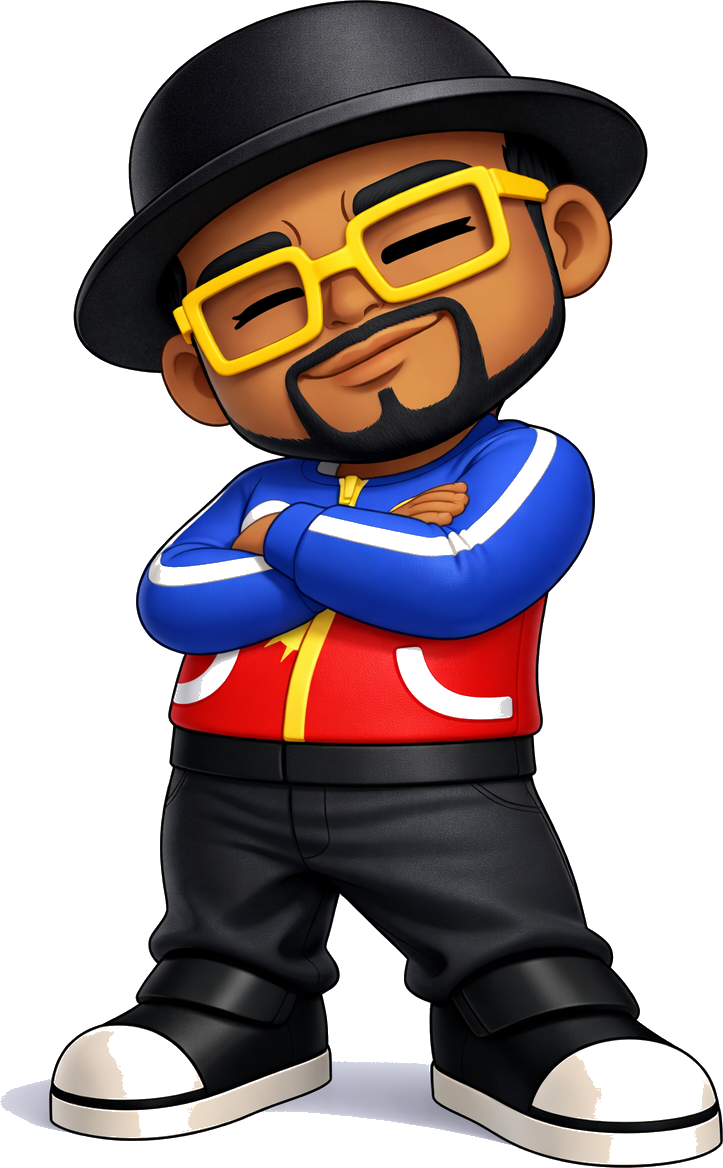
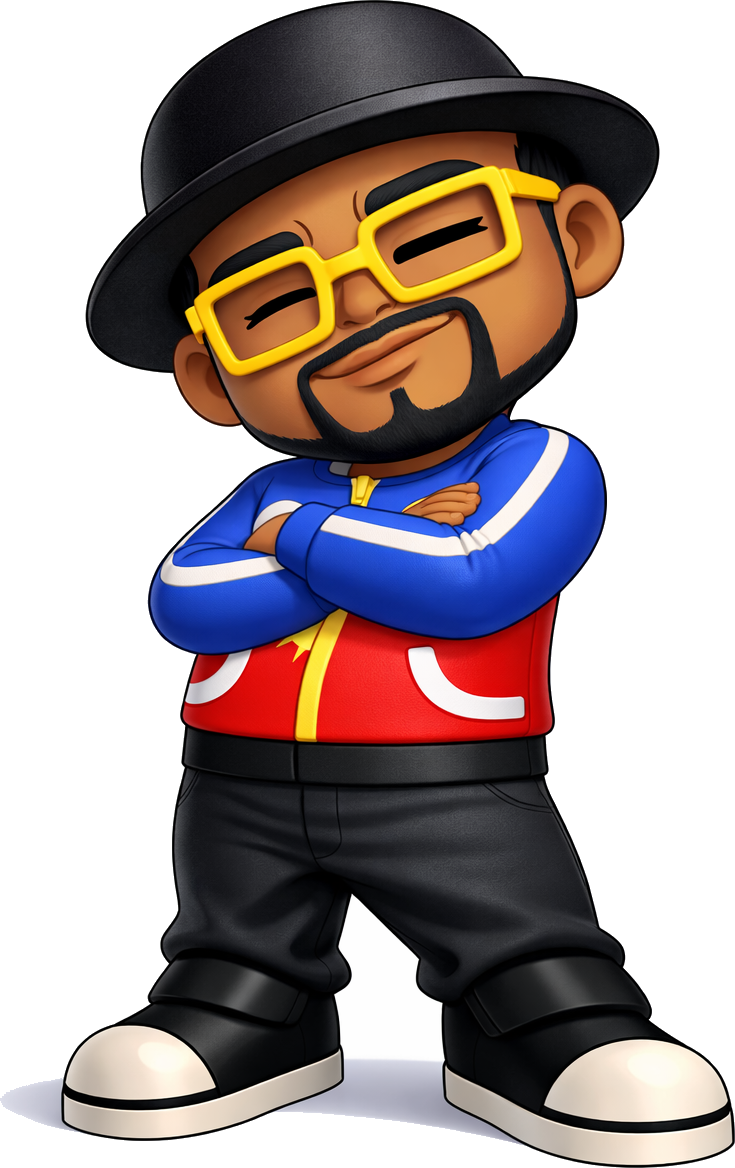
🩹 fix: re-process character PNGs with flood-fill (preserves teeth), add white glow
- Flood-fill from corners instead of global white removal — keeps teeth/internal whites
- Added CSS drop-shadow glow on toggle, chat avatars, 404 page, contact page

diff --git a/index.html b/index.html
@@ -744,7 +744,7 @@ widget.innerHTML=`
 #apl-chat{position:fixed;bottom:20px;right:20px;z-index:999;font-family:'Inter',sans-serif}
 #apl-toggle{width:72px;height:72px;border-radius:50%;background:linear-gradient(135deg,#1a2a3a,#0e1e2e);border:2px solid rgba(107,197,173,.2);cursor:pointer;overflow:hidden;box-shadow:0 8px 32px rgba(0,0,0,.4),0 0 20px rgba(107,197,173,.1);transition:transform .3s,box-shadow .3s;position:relative}
 #apl-toggle:hover{transform:scale(1.1);box-shadow:0 12px 40px rgba(0,0,0,.5),0 0 30px rgba(107,197,173,.2)}
-#apl-toggle img{width:100%;height:100%;object-fit:cover;object-position:top}
+#apl-toggle img{width:100%;height:100%;object-fit:cover;object-position:top;filter:drop-shadow(0 0 6px rgba(255,255,255,.25))}
 #apl-toggle .badge{position:absolute;top:-2px;right:-2px;width:18px;height:18px;background:#6BC5AD;border-radius:50%;border:2px solid #050510;animation:pulse 2s infinite}
 @keyframes pulse{0%,100%{opacity:1;transform:scale(1)}50%{opacity:.6;transform:scale(1.2)}}
 #apl-hint{position:absolute;bottom:80px;right:0;background:rgba(20,24,40,.95);border:1px solid rgba(107,197,173,.15);border-radius:16px 16px 4px 16px;padding:10px 16px;font-size:13px;color:rgba(255,255,255,.8);white-space:nowrap;box-shadow:0 8px 24px rgba(0,0,0,.3);animation:hintBounce 2s ease-in-out infinite;pointer-events:none}
@@ -761,7 +761,7 @@ widget.innerHTML=`
 #apl-messages{flex:1;overflow-y:auto;padding:16px 20px;max-height:320px}
 .apl-msg{display:flex;gap:8px;margin-bottom:16px;animation:msgIn .3s ease}
 @keyframes msgIn{from{opacity:0;transform:translateY(8px)}to{opacity:1;transform:translateY(0)}}
-.apl-msg.bot .avatar{width:32px;height:32px;border-radius:50%;object-fit:cover;object-position:top;flex-shrink:0}
+.apl-msg.bot .avatar{width:32px;height:32px;border-radius:50%;object-fit:cover;object-position:top;flex-shrink:0;filter:drop-shadow(0 0 4px rgba(255,255,255,.2))}
 .apl-msg .bubble{max-width:260px;padding:10px 14px;border-radius:16px;font-size:13px;line-height:1.6}
 .apl-msg.bot .bubble{background:rgba(107,197,173,.1);border:1px solid rgba(107,197,173,.1);color:rgba(255,255,255,.8);border-top-left-radius:4px}
 .apl-msg.user{flex-direction:row-reverse}

diff --git a/404.html b/404.html
@@ -13,7 +13,7 @@ h1,h2{font-family:'Space Grotesk',sans-serif}
 .glow-1{background:#1a3a5c;top:-100px;left:-100px;opacity:.15}
 .glow-2{background:#1a4a3a;bottom:-100px;right:-100px;opacity:.1}
 .container{position:relative;z-index:1;max-width:480px}
-.character{width:220px;height:auto;margin-bottom:24px;animation:wobble 3s ease-in-out infinite;filter:drop-shadow(0 20px 40px rgba(0,0,0,.4))}
+.character{width:220px;height:auto;margin-bottom:24px;animation:wobble 3s ease-in-out infinite;filter:drop-shadow(0 20px 40px rgba(0,0,0,.4)) drop-shadow(0 0 8px rgba(255,255,255,.2))}
 @keyframes wobble{0%,100%{transform:rotate(-2deg) translateY(0)}25%{transform:rotate(1deg) translateY(-8px)}75%{transform:rotate(-1deg) translateY(-4px)}}
 .code{font-family:'Space Grotesk',sans-serif;font-size:120px;font-weight:700;background:linear-gradient(135deg,#6BC5AD,#5A9FD4);-webkit-background-clip:text;-webkit-text-fill-color:transparent;line-height:1;margin-bottom:8px}
 h2{font-size:28px;color:#fff;margin-bottom:12px}

diff --git a/contact.html b/contact.html
@@ -19,7 +19,7 @@ a{color:#6BC5AD}
 .glow-2{width:400px;height:400px;background:#1a4a3a;bottom:-100px;left:-100px;opacity:.08}
 .hero{position:relative;z-index:1;max-width:800px;margin:0 auto;padding:60px 24px 40px;display:flex;align-items:center;gap:48px}
 .hero-character{flex-shrink:0}
-.hero-character img{width:200px;height:auto;filter:drop-shadow(0 20px 40px rgba(0,0,0,.4));animation:float 6s ease-in-out infinite}
+.hero-character img{width:200px;height:auto;filter:drop-shadow(0 20px 40px rgba(0,0,0,.4)) drop-shadow(0 0 8px rgba(255,255,255,.2));animation:float 6s ease-in-out infinite}
 @keyframes float{0%,100%{transform:translateY(0)}50%{transform:translateY(-12px)}}
 .hero-text h1{font-size:36px;margin-bottom:12px}
 .hero-text p{font-size:16px;color:rgba(255,255,255,.5);max-width:400px}
